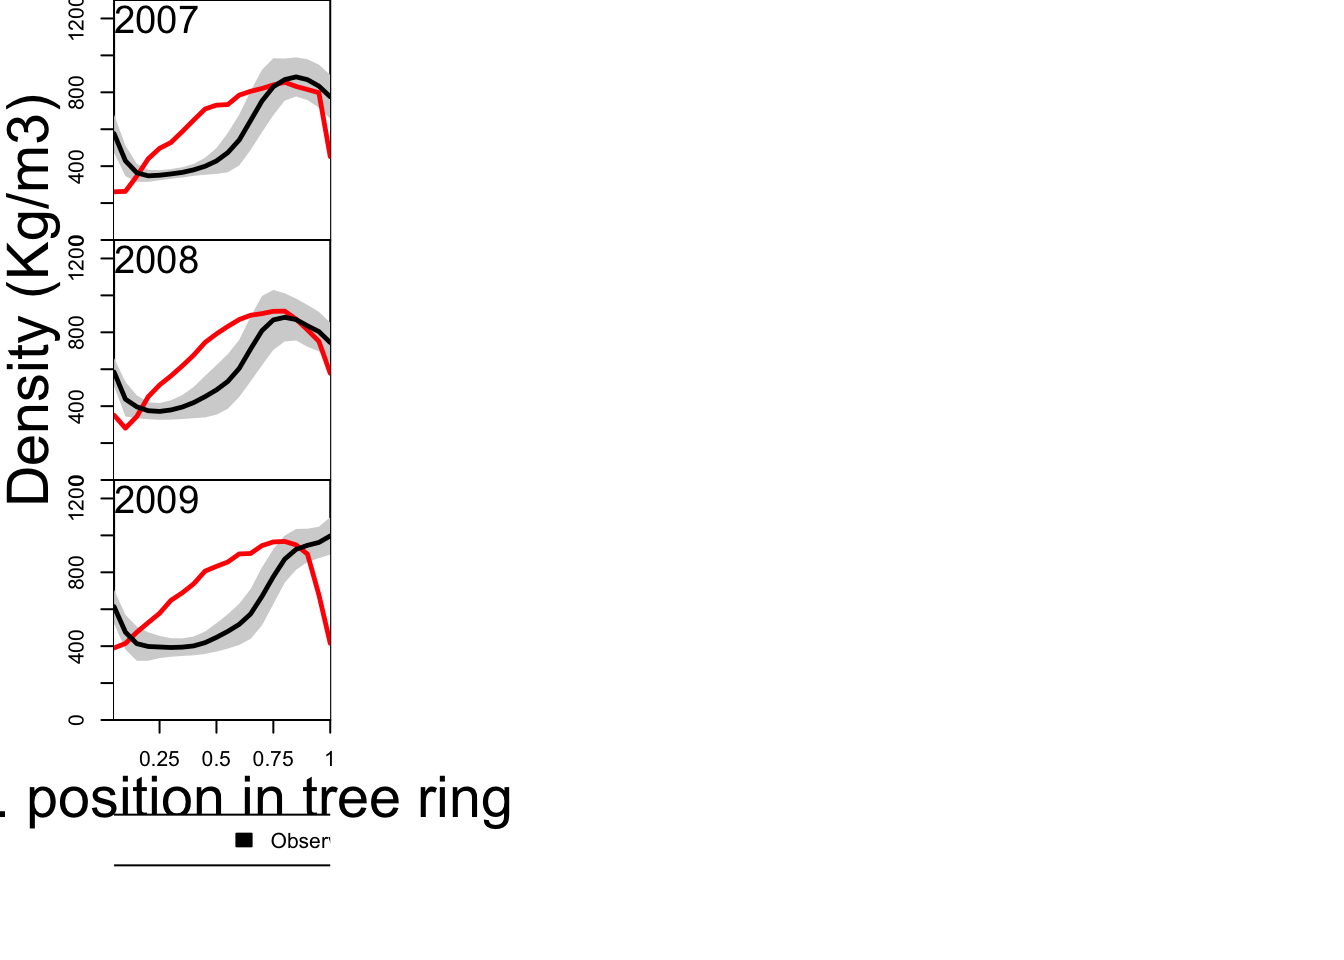
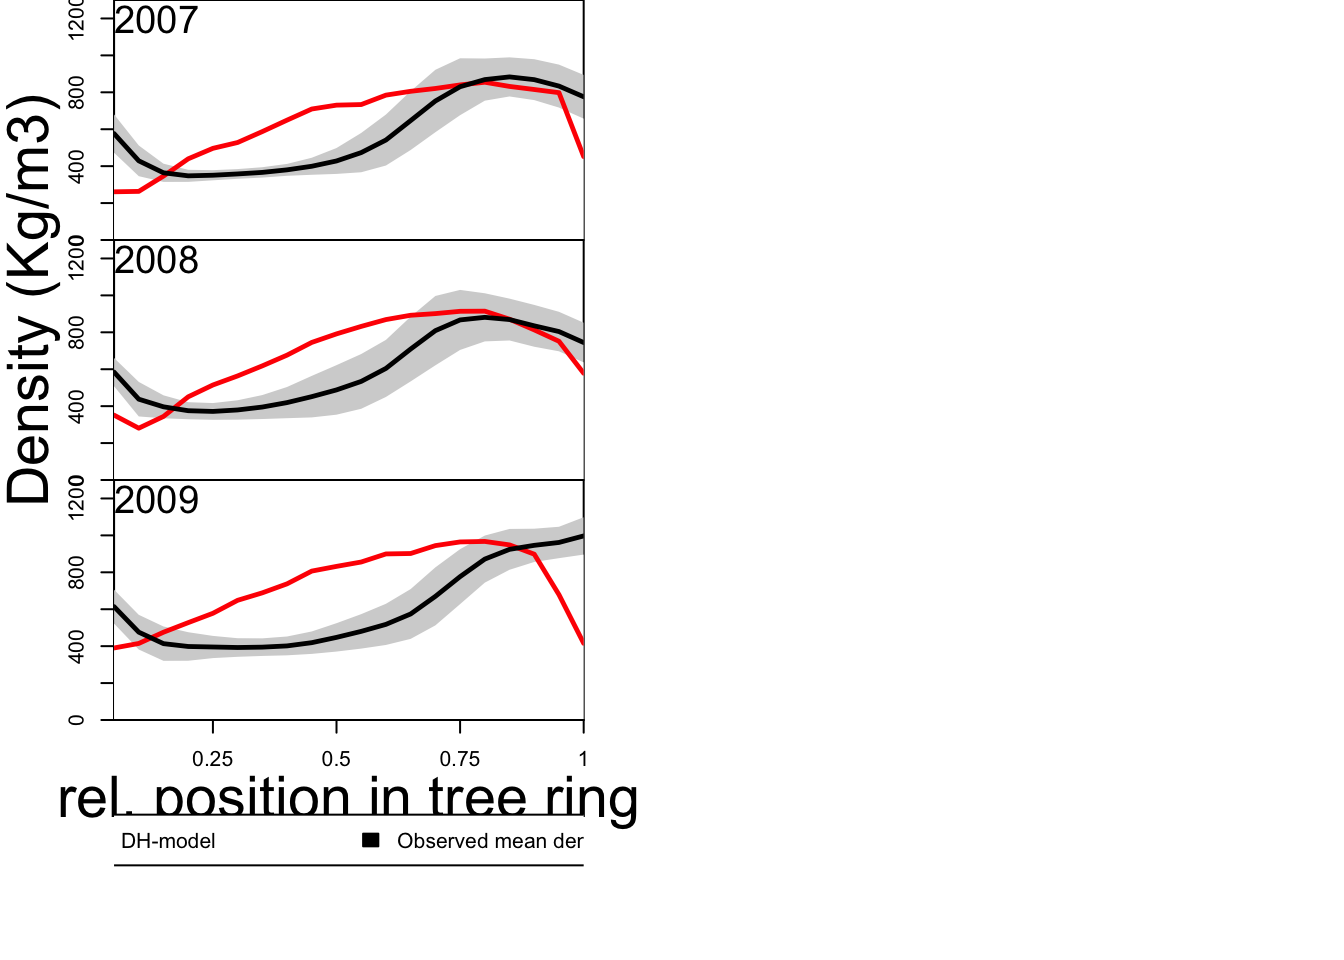
modify content

diff --git a/_site/about.html b/_site/about.html
@@ -302,9 +302,16 @@ $(document).ready(function () {
 
 
 <pre class="r"><code>library(CaviaR)
-library(dplyr)
-
-create_Timestamp&lt;-function(start_date,no_years){
+library(dplyr)</code></pre>
+<pre><code>## 
+## Attaching package: &#39;dplyr&#39;</code></pre>
+<pre><code>## The following objects are masked from &#39;package:stats&#39;:
+## 
+##     filter, lag</code></pre>
+<pre><code>## The following objects are masked from &#39;package:base&#39;:
+## 
+##     intersect, setdiff, setequal, union</code></pre>
+<pre class="r"><code>create_Timestamp&lt;-function(start_date,no_years){
   ## create timestamp for comparison with observations
   start &lt;- as.POSIXct(start_date)
   interval &lt;- 60
@@ -609,8 +616,8 @@ Example year of the model input dynamics and how the outputs ( cell numbers, vol
 
   # when other density measures are saved in the above format, this plot can easily visualise them.
   index&lt;-c(2007,2008,2009)
-  par(mfrow=c(4,1),mar=c(0,4.5,0,40),omar=c(0,2.7,4,0))</code></pre>
-<pre><code>## Warning in par(mfrow = c(4, 1), mar = c(0, 4.5, 0, 40), omar = c(0, 2.7, :
+  par(mfrow=c(4,1),mar=c(0,4.5,0,30),omar=c(0,2.7,4,0))</code></pre>
+<pre><code>## Warning in par(mfrow = c(4, 1), mar = c(0, 4.5, 0, 30), omar = c(0, 2.7, :
 ## &quot;omar&quot; is not a graphical parameter</code></pre>
 <pre class="r"><code>  for ( i in 1:3){
 
@@ -869,7 +876,7 @@ D_MEAN= 26.28087
   TRW_table$VS_model &lt;- as.numeric(D_MEAN*loc_Grandfontaine_650m$cell_numbers/1000) # change units from µm to mm
 
   # plot
-  par(mfrow=c(4,1),mar=c(0,4.5,0,40),oma=c(0,2.7,4,0))
+  par(mfrow=c(4,1),mar=c(0,4.5,0,30),oma=c(0,2.7,4,0))
 
   maxN&lt;-max(cell_nr_table$tot_cells_model,cell_nr_table$Mean)+max(cell_nr_table$Sd)+5
   minN&lt;-min(cell_nr_table$tot_cells_model,cell_nr_table$Mean)-max(cell_nr_table$Sd)-5

diff --git a/_site/index.html b/_site/index.html
@@ -302,9 +302,9 @@ $(document).ready(function () {
 </div>
 
 
-<p>This Website prvides the data for the graphs that were presented in the Poster at the EGU General Assembly 2019, session BG2.12 - Constraining present and future global vegetation dynamics and carbon stocks.</p>
-<p>The poster title is <em>Improving understanding of wood formation: a comparison of two models</em></p>
-<p>The Abstract can be found here: [<a href="https://meetingorganizer.copernicus.org/EGU2019/EGU2019-17876.pdf" class="uri">https://meetingorganizer.copernicus.org/EGU2019/EGU2019-17876.pdf</a>]</p>
+<p>This Website prvides the data for the graphs that were presented in the Poster at the (EGU General Assembly 2019)[<a href="https://www.egu2019.eu/" class="uri">https://www.egu2019.eu/</a>], session BG2.12 - Constraining present and future global vegetation dynamics and carbon stocks.</p>
+<p>The Abstract can be found (here)[<a href="https://meetingorganizer.copernicus.org/EGU2019/EGU2019-17876.pdf" class="uri">https://meetingorganizer.copernicus.org/EGU2019/EGU2019-17876.pdf</a>]</p>
+<p>please go to</p>
 <p>The poster can be viewed again here:</p>
 <div class="figure">
 <img src="Poster_V2.png" alt="Presented at EGU 2019, session" />
